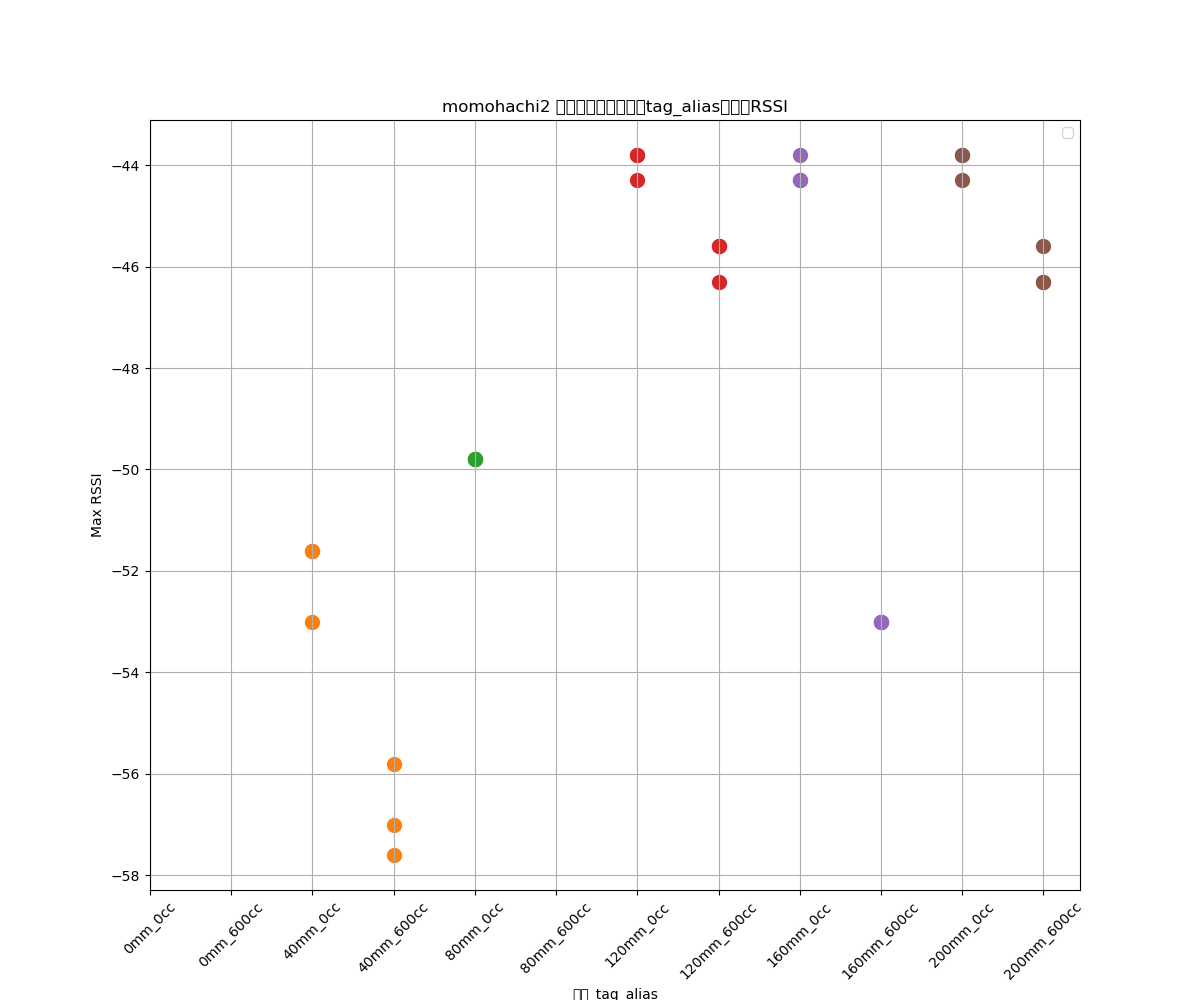
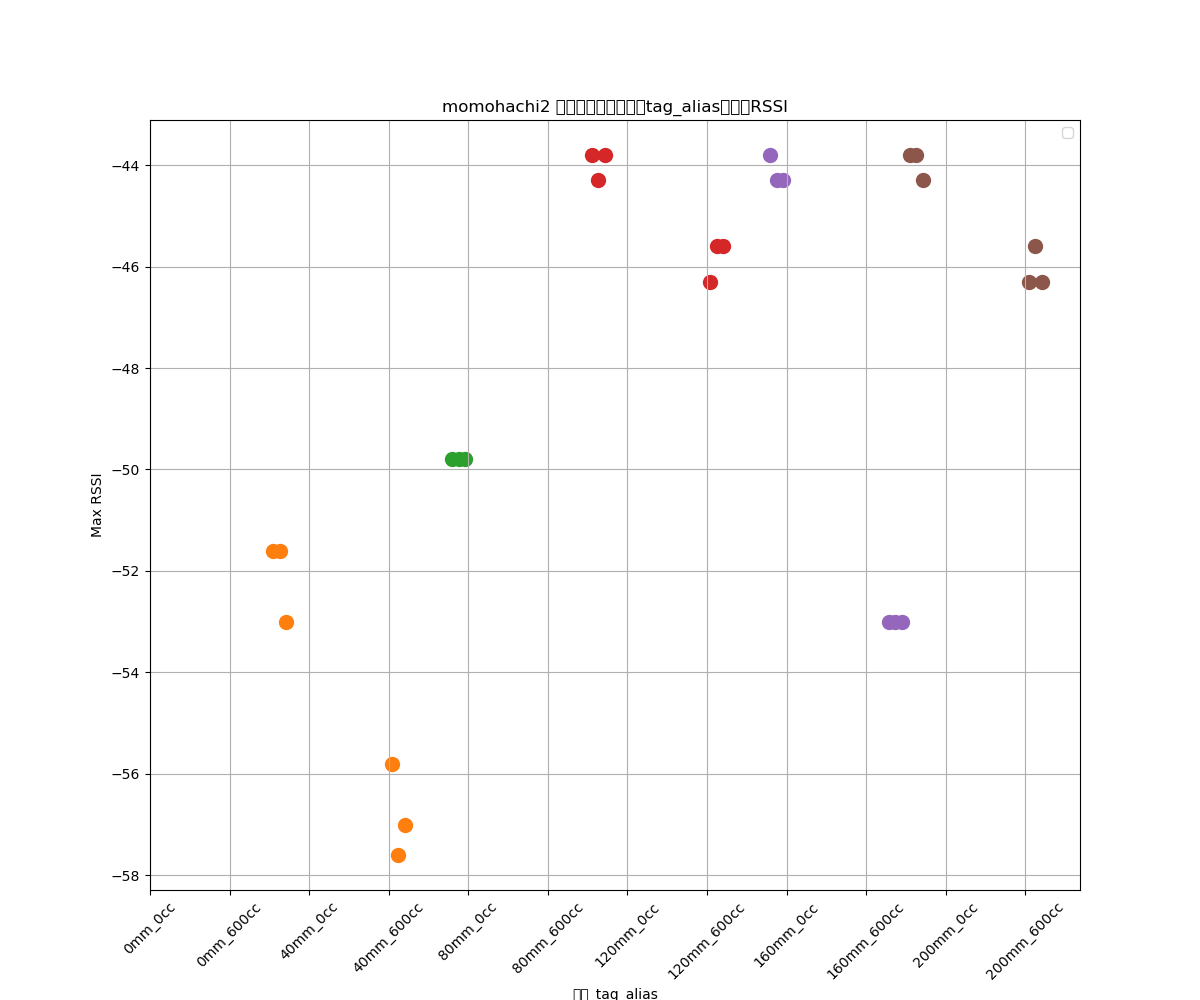
オフセット追加

diff --git a/plot_max_rssi_per_tag.py b/plot_max_rssi_per_tag.py
@@ -126,14 +126,25 @@ marker_list = ['o','s','^','D','v','*','x','+','1','2','3','4','8','p','h']
 plt.figure(figsize=(12,10))
 
 
-# 全データをそのままプロット
+
+# プロットが重ならないようにオフセットを与えて横に並べる
+num_csv = len(csv_data)
+offsets = []
+if num_csv > 1:
+    step = 0.6 / (num_csv-1) if num_csv > 1 else 0
+    offsets = [(-0.3 + i*step) for i in range(num_csv)]
+else:
+    offsets = [0]
+
+csv_names = list(csv_data.keys())
 for tag in valid_tags:
     for cc in valid_ccs:
         label = f'{tag}_{cc}cc'
-        for i, csv_name in enumerate(csv_data.keys()):
+        for i, csv_name in enumerate(csv_names):
             y = csv_data[csv_name].get(label, None)
             if y is not None:
-                plt.scatter(x_labels.index(label), y, color=tag_color_map[tag], marker='o', s=100, label=f'{csv_name}' if tag==valid_tags[0] else None)
+                x_pos = x_labels.index(label) + offsets[i]
+                plt.scatter(x_pos, y, color=tag_color_map[tag], marker='o', s=100, label=f'{csv_name}' if tag==valid_tags[0] else None)
 
 # 「通信不可」表示
 for idx, label in enumerate(x_labels):
